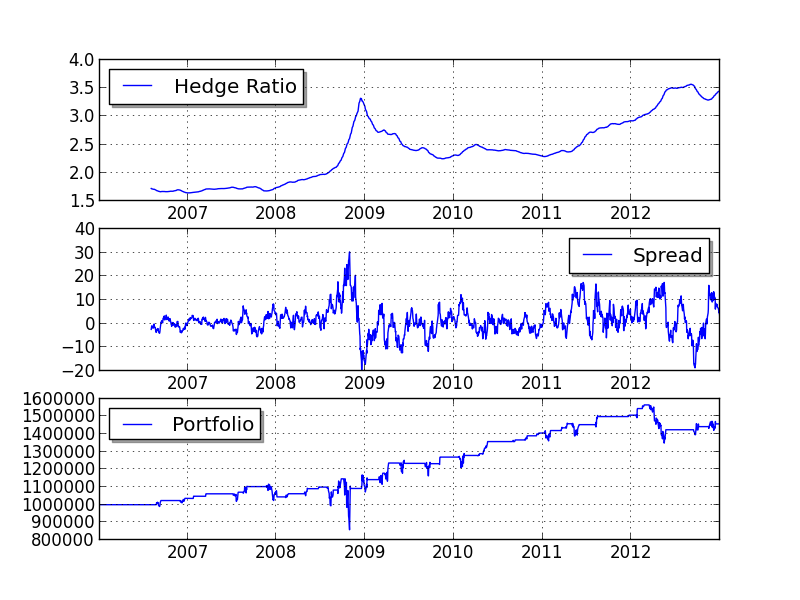
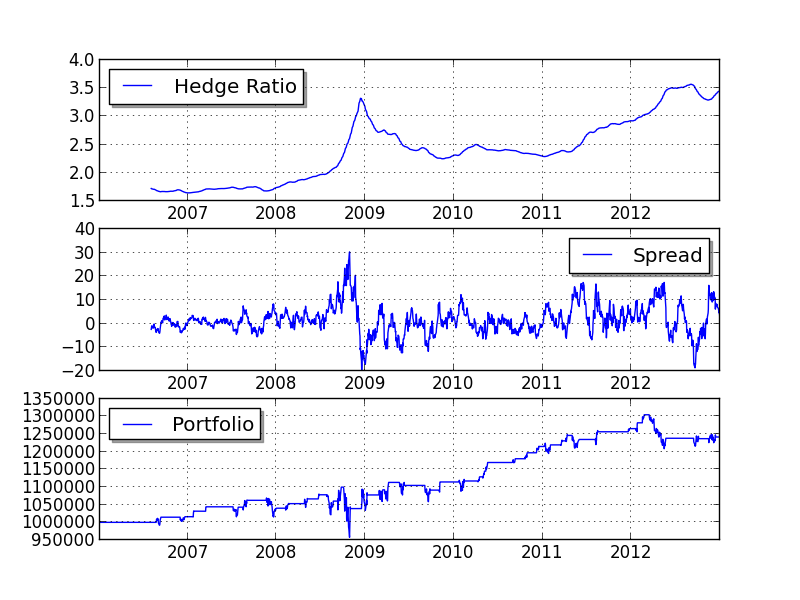
Bug fixes to statarb_erniechan sample based on feedback from Tibor Kiss.

Changed region(s): [[0.0312, 0.66, 0.9062, 0.93], [0.0312, 0.66, 0.0625, 0.81]]

diff --git a/samples/statarb_erniechan.py b/samples/statarb_erniechan.py
@@ -73,7 +73,8 @@ class MyStrategy(strategy.Strategy):
 		self.__statArbHelper = StatArbHelper(feed[instrument1].getAdjCloseDataSeries(), feed[instrument2].getAdjCloseDataSeries(), windowSize)
 		self.__i1 = instrument1
 		self.__i2 = instrument2
-		# This dataseries are used only for plotting purposes.
+
+		# These are used only for plotting purposes.
 		self.__spread = dataseries.SequenceDataSeries()
 		self.__hedgeRatio = dataseries.SequenceDataSeries()
 
@@ -84,8 +85,7 @@ class MyStrategy(strategy.Strategy):
 		return self.__hedgeRatio
 
 	def __getOrderSize(self, bars, hedgeRatio):
-		# Use up to 75% of available cash.
-		cash = self.getBroker().getCash(False) * 0.75
+		cash = self.getBroker().getCash(False)
 		price1 = bars[self.__i1].getAdjClose()
 		price2 = bars[self.__i2].getAdjClose()
 		size1 = int(cash / (price1 + hedgeRatio * price2))
@@ -94,13 +94,11 @@ class MyStrategy(strategy.Strategy):
 
 	def buySpread(self, bars, hedgeRatio):
 		amount1, amount2 = self.__getOrderSize(bars, hedgeRatio)
-
 		self.order(self.__i1, amount1)
 		self.order(self.__i2, amount2 * -1)
 
 	def sellSpread(self, bars, hedgeRatio):
 		amount1, amount2 = self.__getOrderSize(bars, hedgeRatio)
-
 		self.order(self.__i1, amount1 * -1)
 		self.order(self.__i2, amount2)
 
@@ -114,7 +112,7 @@ class MyStrategy(strategy.Strategy):
 	def onBars(self, bars):
 		self.__statArbHelper.update()
 
-		# This dataseries are used only for plotting purposes.
+		# These is used only for plotting purposes.
 		self.__spread.appendValueWithDatetime(bars.getDateTime(), self.__statArbHelper.getSpread())
 		self.__hedgeRatio.appendValueWithDatetime(bars.getDateTime(), self.__statArbHelper.getHedgeRatio())
 
@@ -122,12 +120,13 @@ class MyStrategy(strategy.Strategy):
 			hedgeRatio = self.__statArbHelper.getHedgeRatio()
 			zScore = self.__statArbHelper.getZScore()
 			if zScore != None:
-				if abs(zScore) <= 1:
+				currentPos =  abs(self.getBroker().getShares(self.__i1)) + abs(self.getBroker().getShares(self.__i2))
+				if abs(zScore) <= 1 and currentPos != 0:
 					self.reducePosition(self.__i1)
 					self.reducePosition(self.__i2)
-				elif zScore <= -2: # Buy spread when its value drops below 2 standard deviations.
+				elif zScore <= -2 and currentPos == 0: # Buy spread when its value drops below 2 standard deviations.
 					self.buySpread(bars, hedgeRatio)
-				elif zScore >= 2: # Short spread when its value rises above 2 standard deviations.
+				elif zScore >= 2 and currentPos == 0: # Short spread when its value rises above 2 standard deviations.
 					self.sellSpread(bars, hedgeRatio)
 
 def build_feed(instruments, fromYear, toYear):
